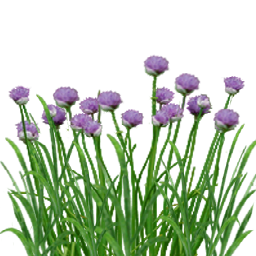
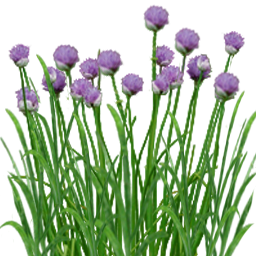
Build 64 Fix Bugs

diff --git a/Better Foliage/jni/BetterFoliage.cpp b/Better Foliage/jni/BetterFoliage.cpp
@@ -1,6 +1,7 @@
 #include <jni.h>
 #include <dlfcn.h>
 #include <Substrate.h>
+#include <cstdlib>
 
 #include "mcpe/client/renderer/BlockTessellator.h"
 #include "mcpe/block/Block.h"
@@ -25,8 +26,8 @@ static bool TessellateInWorld(BlockTessellator *tess,Block &block,BlockPos const
 	Block* blockk = const_cast<Block*>(&block);
 	int x = pos.x, y = pos.y, z = pos.z;
 	
-	/*int TR = Block::mGlass -> renderLayer1;
-	Block::mBlocks[2] -> renderLayer1 = TR;*/
+	int TR = Block::mGlass -> renderLayer1;
+	Block::mBlocks[2] -> renderLayer1 = TR;
 	
 	/*switch(block.blockId){
 		case 2:
@@ -42,37 +43,42 @@ static bool TessellateInWorld(BlockTessellator *tess,Block &block,BlockPos const
 		/*if(tess -> getRegion().getBlock(x,y+1,z) == Block::mAir){
 			tess -> getRegion().setBlock(x,y+1,z,201,0);
 		}*/
-		//tess -> tessellateCrossInWorld(*Block::mBlocks[201],BlockPos(x,y + 1,z),aux,true);
+		srand(x^y^z);
+		unsigned char raux = rand()%3;
+	    tess -> tessellateCrossInWorld(*Block::mBlocks[201],BlockPos(x,y + 1,z),raux,true);
 		return _TessellateInWorld(tess,block,pos,aux,b);
 	}
 	else if(block.blockId == 201){
-		float offsetx = ((x - z + y) % 10) / 45 , offsetz = ((x - z - y) % 10) / 45;
+        srand(x^y^z);
+		float const  offsetx = fmod((((float)rand())/((float)RAND_MAX)),0.2)*((rand()%2)?1:-1);
+		float const  offsety = fmod((((float)rand())/((float)RAND_MAX)),0.1)*((rand()%2)?1:-1);
+		float const  offsetz = fmod((((float)rand())/((float)RAND_MAX)),0.2)*((rand()%2)?1:-1);
 		//block.setVisualShape({0,0,0,1+offsetx,0.8,1+offsetz});
 		//return _TessellateInWorld(tess,block,{x + offsetx,y,z + offsetz},aux,b);
 		//return _tessellateInWorld(tess,block,pos,aux,b);
-		Tessellator& t=tess -> getTessellator();
+		Tessellator& t = tess -> getTessellator();
 		t.init();
 		t.color(tess -> _getBlockColor(pos,block,aux));
 		TextureUVCoordinateSet const& uv = tess -> _getTexture(block,0,aux);
 		t.vertexUV(x + offsetx + 0.10,y - 0.20,z + offsetz + 0.10,uv.maxU,uv.maxV);
-		t.vertexUV(x + offsetx + 0.10,y + 0.80,z + offsetz + 0.10,uv.maxU,uv.minV);
-		t.vertexUV(x + offsetx + 0.90,y + 0.80,z + offsetz + 0.90,uv.minU,uv.minV);
+		t.vertexUV(x + offsetx + 0.10,y + offsety + 0.70,z + offsetz + 0.10,uv.maxU,uv.minV);
+		t.vertexUV(x + offsetx + 0.90,y + offsety + 0.70,z + offsetz + 0.90,uv.minU,uv.minV);
 		t.vertexUV(x + offsetx + 0.90,y - 0.20,z + offsetz + 0.90,uv.minU,uv.maxV);
 		
 		t.vertexUV(x + offsetx + 0.10,y - 0.20,z + offsetz + 0.10,uv.minU,uv.maxV);
 		t.vertexUV(x + offsetx + 0.90,y - 0.20,z + offsetz + 0.90,uv.maxU,uv.maxV);
-		t.vertexUV(x + offsetx + 0.90,y + 0.80,z + offsetz + 0.90,uv.maxU,uv.minV);
-		t.vertexUV(x + offsetx + 0.10,y + 0.80,z + offsetz + 0.10,uv.minU,uv.minV);
+		t.vertexUV(x + offsetx + 0.90,y + offsety + 0.70,z + offsetz + 0.90,uv.maxU,uv.minV);
+		t.vertexUV(x + offsetx + 0.10,y + offsety + 0.70,z + offsetz + 0.10,uv.minU,uv.minV);
 		
 		t.vertexUV(x + offsetx + 0.10,y - 0.20,z + offsetz + 0.90,uv.maxU,uv.maxV);
-		t.vertexUV(x + offsetx + 0.10,y + 0.80,z + offsetz + 0.90,uv.maxU,uv.minV);
-		t.vertexUV(x + offsetx + 0.90,y + 0.80,z + offsetz + 0.10,uv.minU,uv.minV);
+		t.vertexUV(x + offsetx + 0.10,y + offsety + 0.70,z + offsetz + 0.90,uv.maxU,uv.minV);
+		t.vertexUV(x + offsetx + 0.90,y + offsety + 0.70,z + offsetz + 0.10,uv.minU,uv.minV);
 		t.vertexUV(x + offsetx + 0.90,y - 0.20,z + offsetz + 0.10,uv.minU,uv.maxV);
 		
 		t.vertexUV(x + offsetx + 0.10,y - 0.20,z + offsetz + 0.90,uv.minU,uv.maxV);
 		t.vertexUV(x + offsetx + 0.90,y - 0.20,z + offsetz + 0.10,uv.maxU,uv.maxV);
-		t.vertexUV(x + offsetx + 0.90,y + 0.80,z + offsetz + 0.10,uv.maxU,uv.minV);
-		t.vertexUV(x + offsetx + 0.10,y + 0.80,z + offsetz + 0.90,uv.minU,uv.minV);
+		t.vertexUV(x + offsetx + 0.90,y + offsety + 0.70,z + offsetz + 0.10,uv.maxU,uv.minV);
+		t.vertexUV(x + offsetx + 0.10,y + offsety + 0.70,z + offsetz + 0.90,uv.minU,uv.minV);
 	}
 	else{
 		return _TessellateInWorld(tess,block,pos,aux,b);
@@ -115,12 +121,6 @@ static void InitCreativeItems(){
 	Item::addCreativeItem(201,0);
 	Item::addCreativeItem(201,1);
 	Item::addCreativeItem(201,2);
-	Item::addCreativeItem(201,3);
-	Item::addCreativeItem(201,4);
-	Item::addCreativeItem(201,5);
-	Item::addCreativeItem(201,6);
-	Item::addCreativeItem(201,7);
-	Item::addCreativeItem(201,8);
 }
 
 /*static void (*_NormalTick)(Entity*entity);
